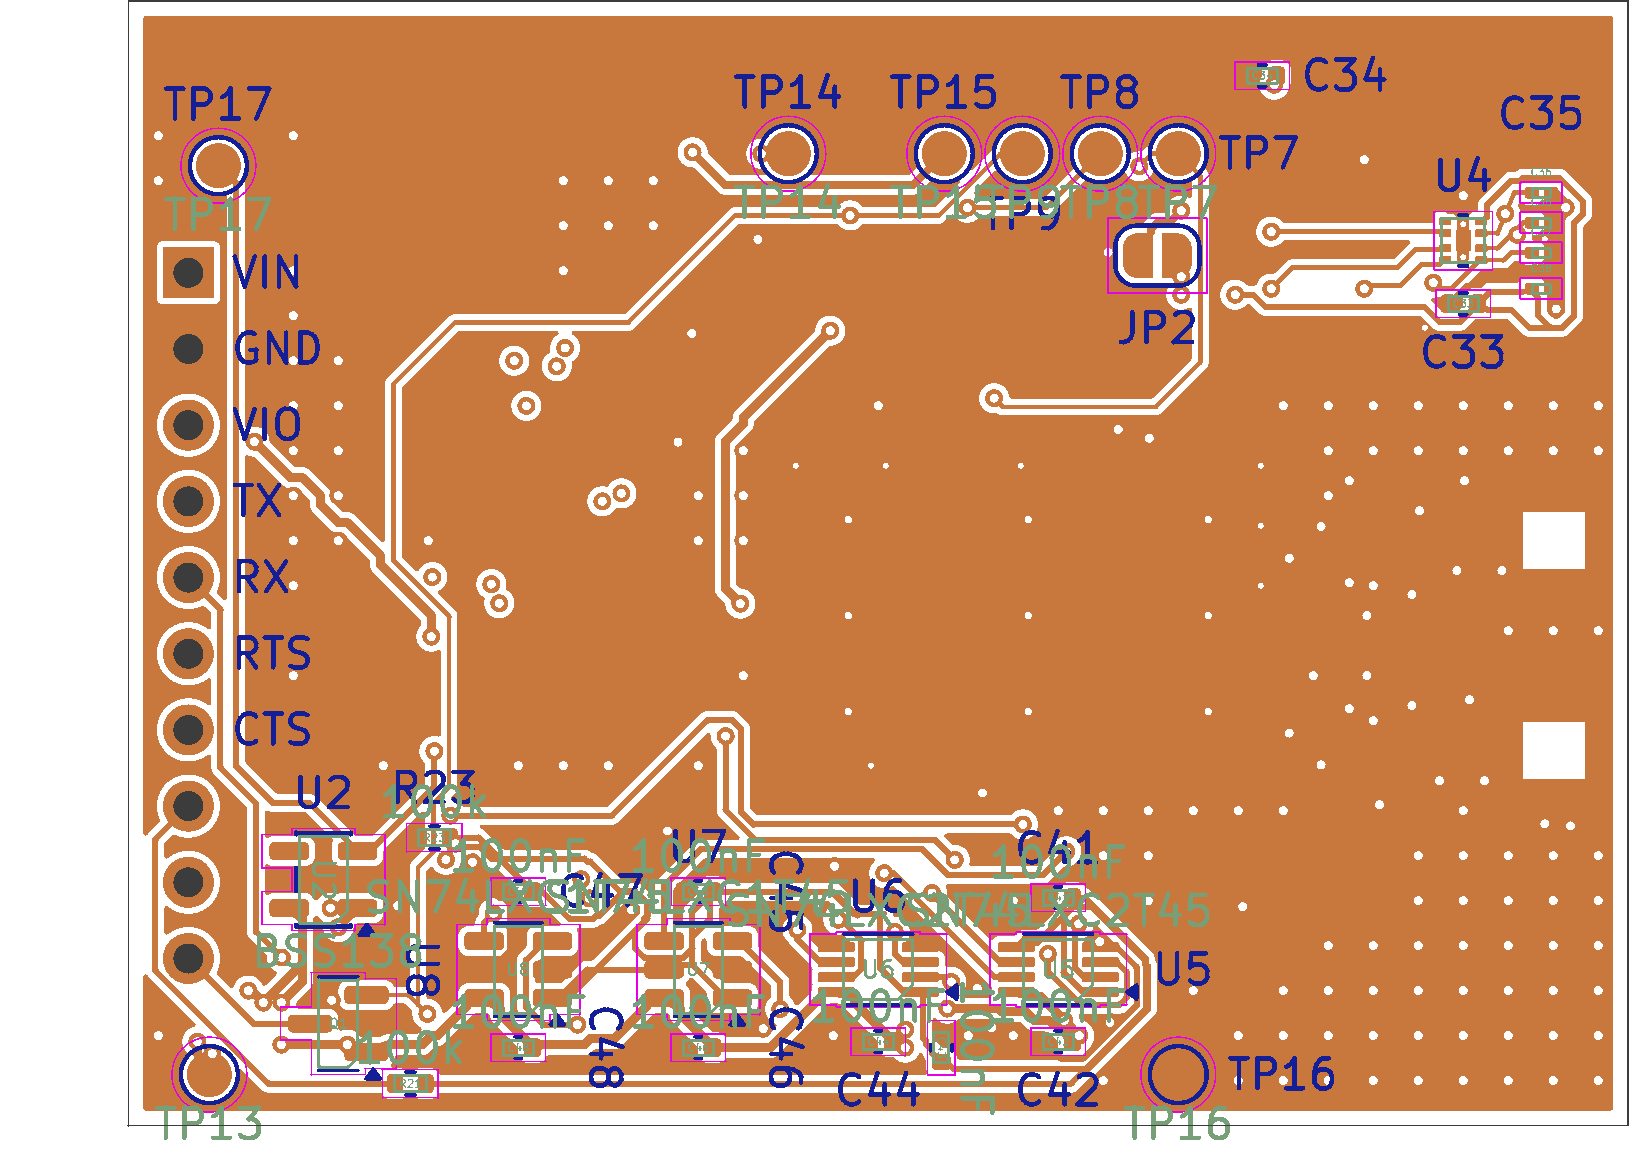
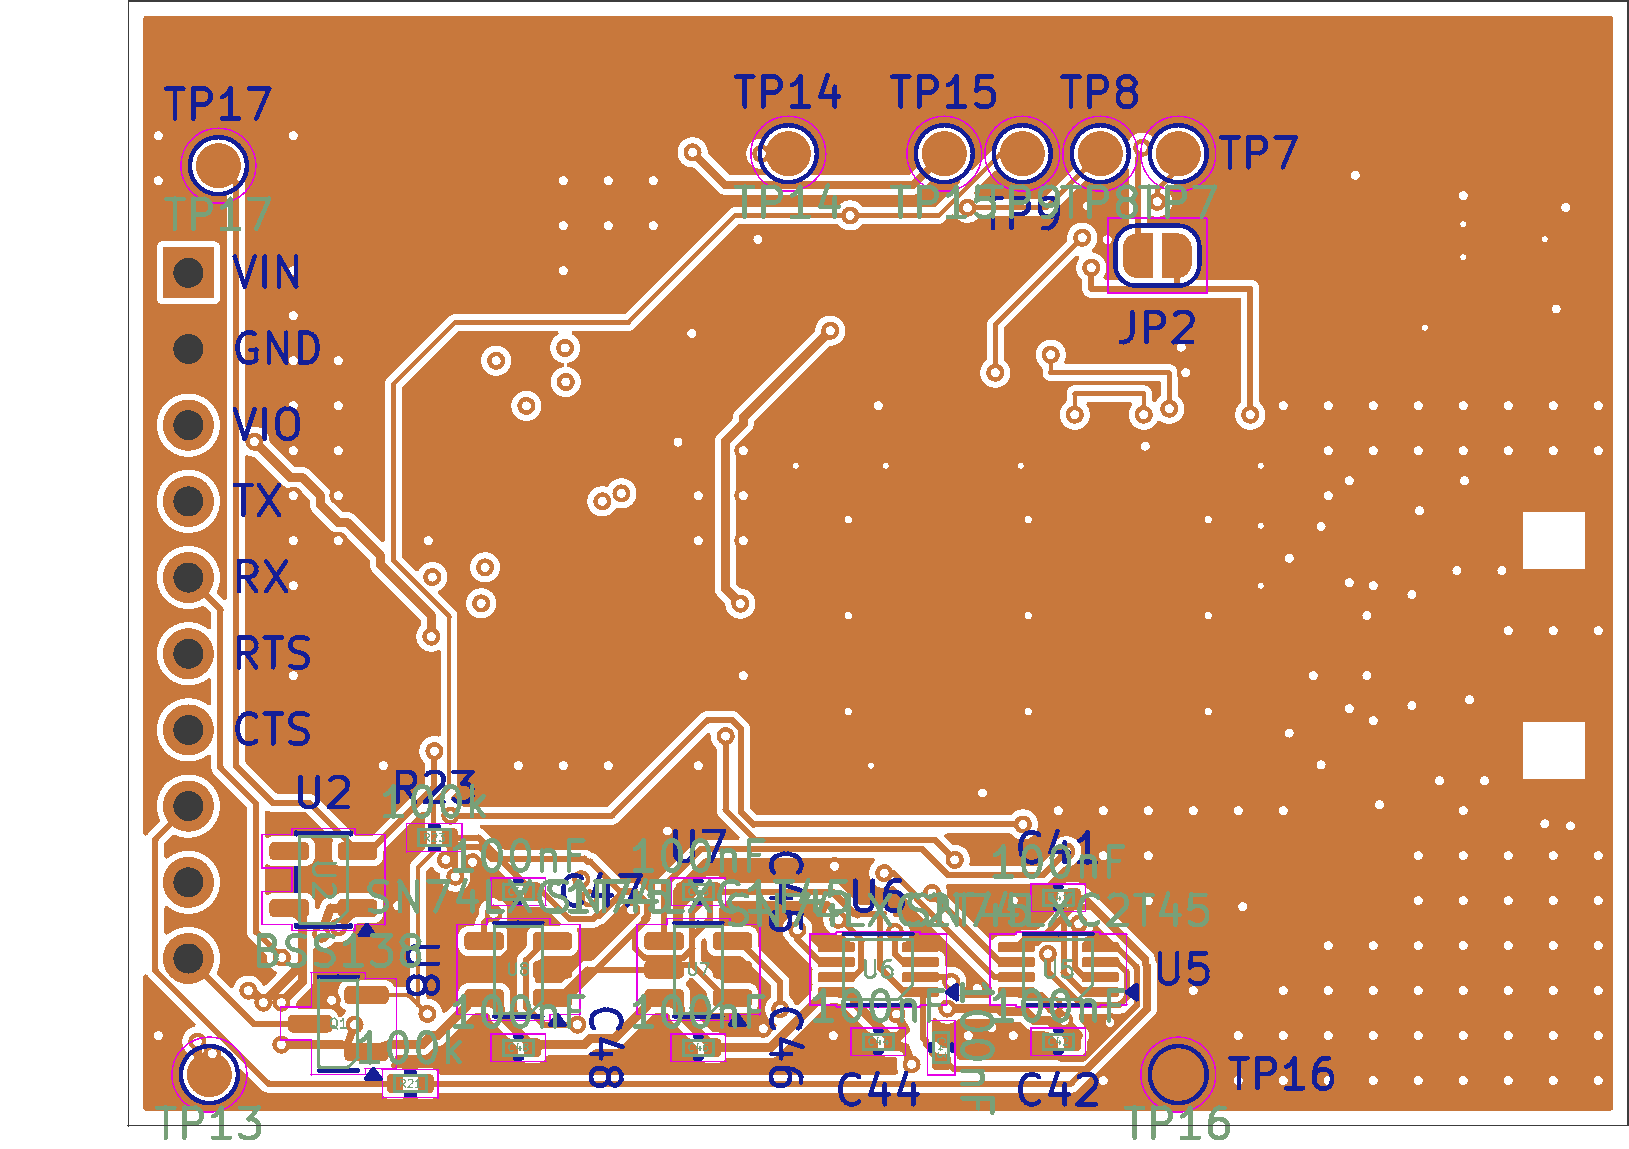
v2d-4: V2_LAYOUT.md + layout PNGs updated for pass v2d

diff --git a/reports/V2_LAYOUT.md b/reports/V2_LAYOUT.md
@@ -84,3 +84,10 @@ The bottom is lighter (23 vs 44 assembled). J7 SIM holder is now on top. Bottom 
 ## Images
 - Top: `reports/v2_layout_top.png`
 - Bottom (mirrored view): `reports/v2_layout_bottom.png`
+
+## Pass v2d (DFM RED fixes from V2_FAB_PASS_6645a01), base d89dc88
+- v2d-1 2208604: unfilled 0.3 vias moved off pasted pads (C42.1, Q1.1, R23.1, C44.1, U2.1, J7 C5, C1.1, FB4.2); U5.4 edge via dropped. **No via converted to VIPPO.**
+- v2d-2 ff8f1bb: U4 (SIM ESD) + C33–C38 moved to TOP beside J7 (U4 @ 32.4,23.9), outside RF keepouts. SIM nets rerouted; no vias in any J7 pad. U4 EP: 0.3 mm GND track to 2 GND vias (30.75,23.9)/(30.9,23.05) + C40.2 tie. SWDIO/P0.22 rerouted.
+- v2d-3 76d2941: all bottom silk lines + J20 lines 0.15 mm; min_silk_clearance 0.15 (.kicad_pro); C23 east silk segment removed (was 0.09 mm to U1 silk).
+- Step 4 (bottom pad ↔ via copper ≥0.3 mm): not changed further; 15 different-net bottom-pad/via pairs <0.3 mm remain (all DRC-legal).
+- Gate: DRC 0, unconnected 0, silk 0. G1 8.66 mm; G2 In1 1 piece 1707 mm²/100 %; G3 fences ANT 100/100, GPS 98.7/100, AUX 100/100, rf_vias 0; G4 0.2×7 + 0.25×9 GND, B.Cu 100 %; G5 In2 1 piece 1574.7 mm², C40→U1.49 2.58 mm; G6 3/3 GND vias. Counts: top 51 assembled / bottom 16 assembled.
